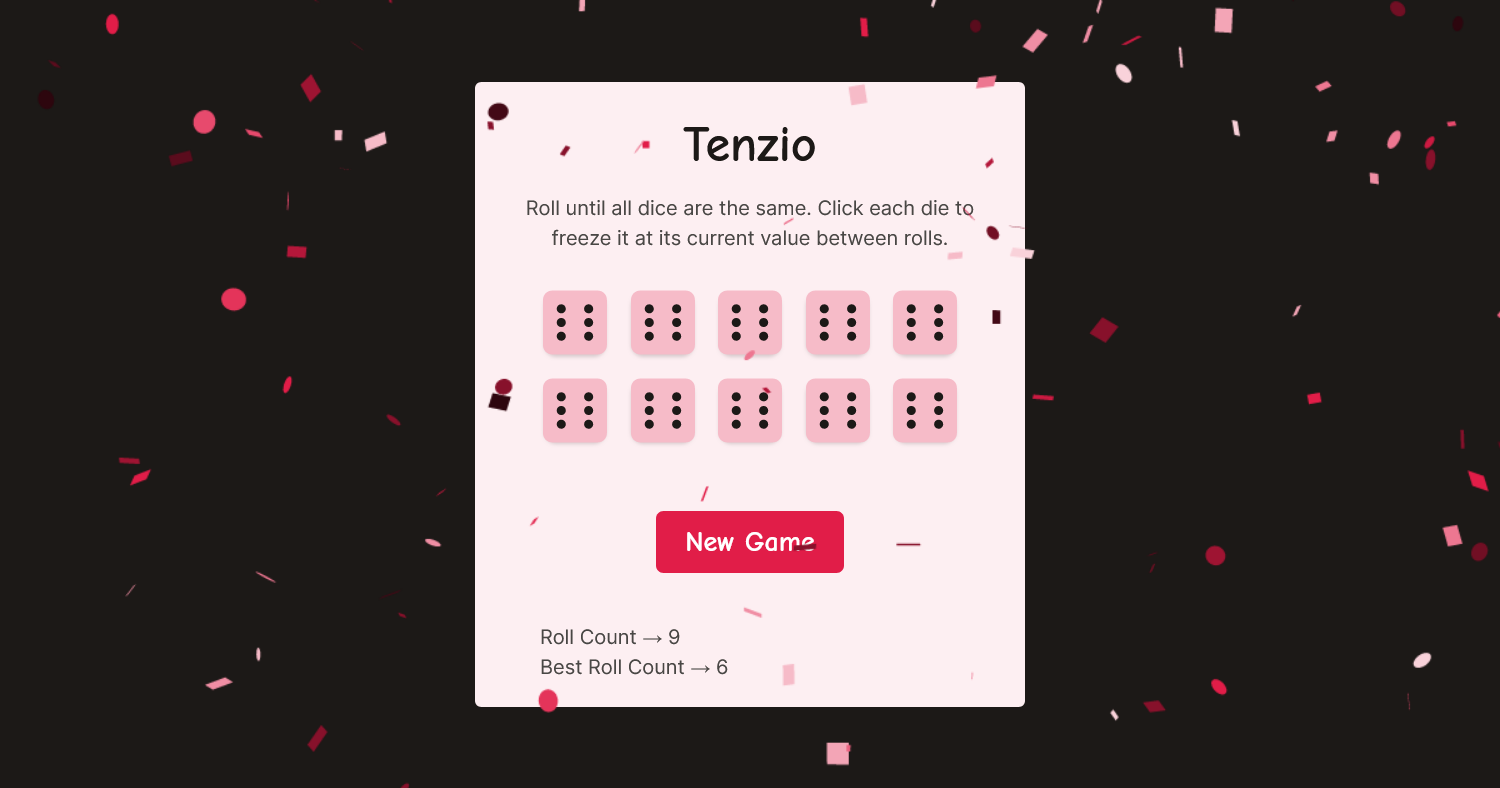
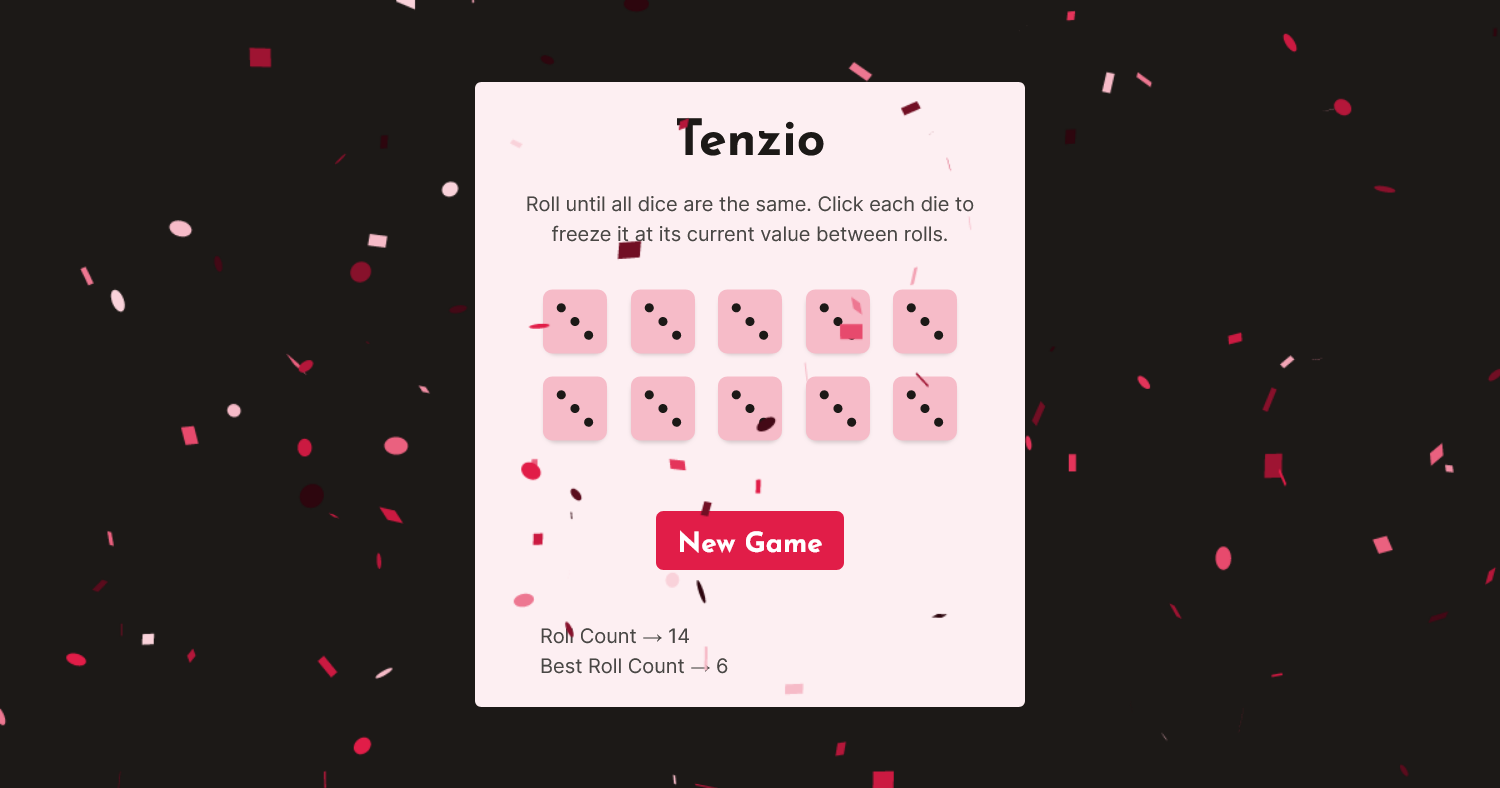
Change font

diff --git a/index.html b/index.html
@@ -28,7 +28,7 @@
     <link rel="preconnect" href="https://fonts.googleapis.com" />
     <link rel="preconnect" href="https://fonts.gstatic.com" crossorigin />
     <link
-      href="https://fonts.googleapis.com/css2?family=Inter&family=Comic+Neue:wght@700&display=swap"
+      href="https://fonts.googleapis.com/css2?family=Inter&family=Josefin+Sans:wght@700&display=swap"
       rel="stylesheet"
     />
 

diff --git a/src/index.css b/src/index.css
@@ -12,7 +12,7 @@ main,
 body {
   margin: 0;
   background-color: #1c1917;
-  font-family: "Comic Neue", cursive;
+  font-family: "Josefin Sans", sans-serif;
   justify-content: center;
   align-items: center;
   min-height: 100vh;
@@ -76,7 +76,7 @@ p {
 /* Button */
 
 .roll-dice {
-  height: 50px;
+  padding: 0.6em 0 0.3em;
   width: 150px;
   border: none;
   border-radius: 6px;
